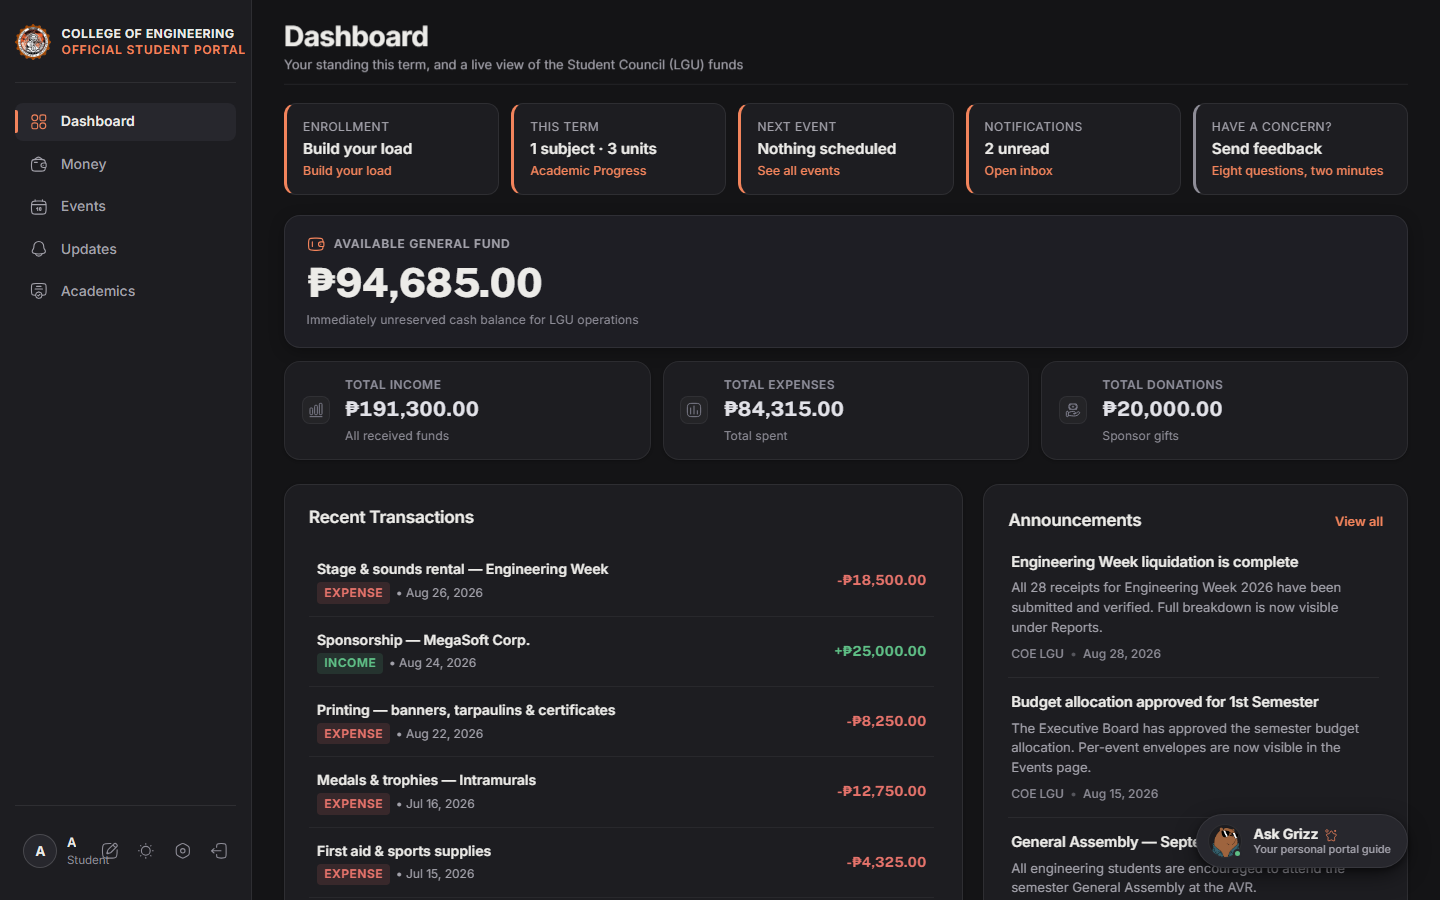
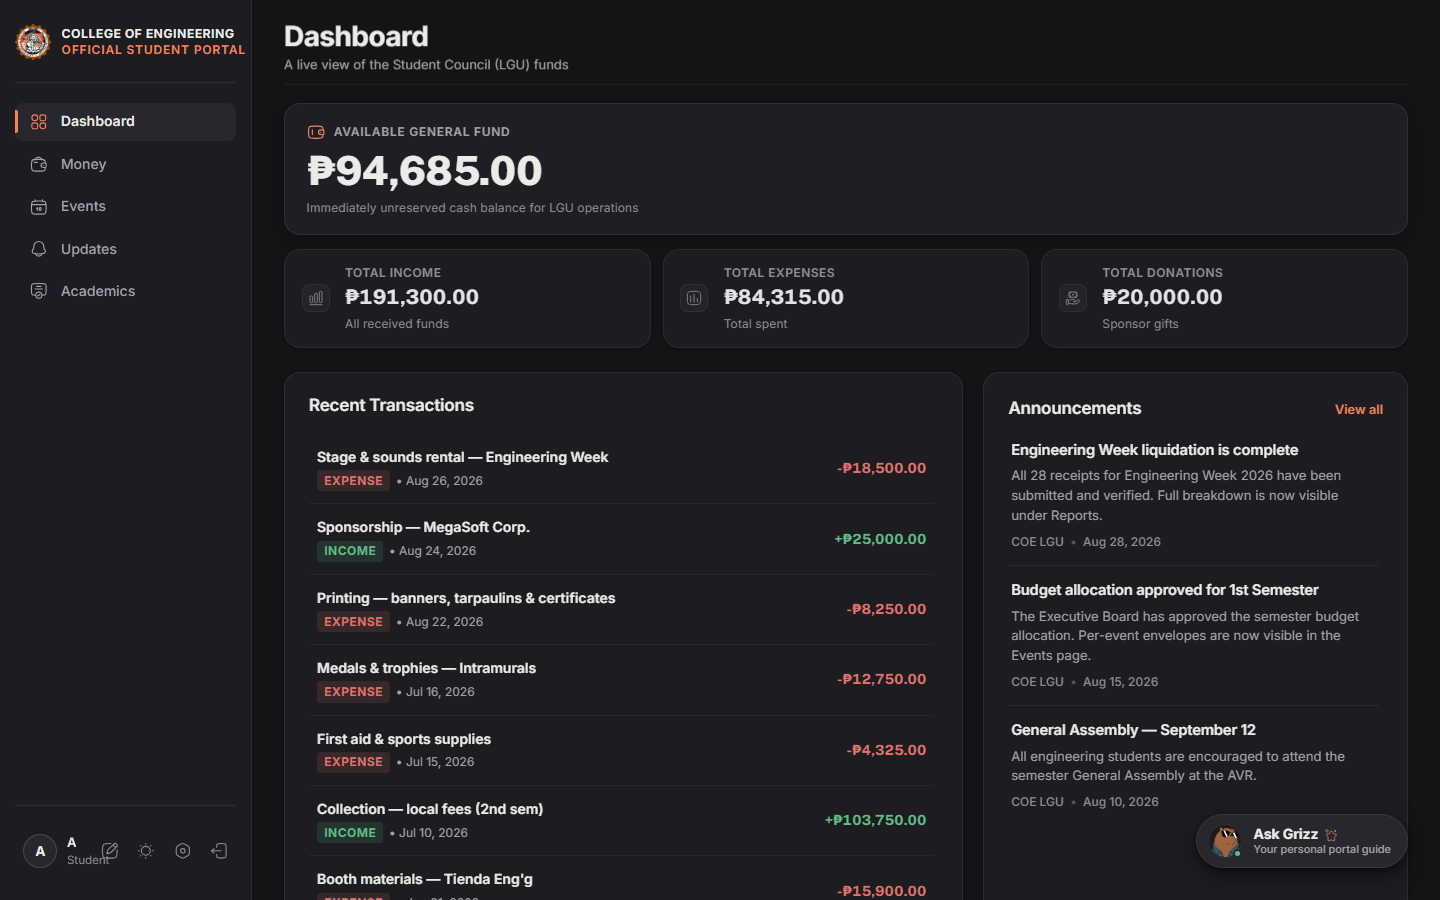
fix(ui): remove the student status strip and fit the Academic nav label
The five-tile strip duplicated destinations that the grouped nav now
puts one tap away, borrowed the coral left rail that marks the active
nav section, and pushed the fund balance below the fold on phones.
The phone bottom-nav label becomes "Academic" so it no longer truncates.

Verified: verify-nav-consolidation 58/58, verify-student-experience
37/37, check_txs exit 0.

diff --git a/client/js/dashboard.js b/client/js/dashboard.js
@@ -7,7 +7,7 @@ const Dashboard = (() => {
   let realtimeChannel = null;
 
   async function load() {
-    await Promise.all([loadStats(), loadRecentTransactions(), loadAnnouncements(), loadStudentStatus()]);
+    await Promise.all([loadStats(), loadRecentTransactions(), loadAnnouncements()]);
     subscribeRealtime();
     bindPopovers();
     bindViewAll();
@@ -327,77 +327,6 @@ const Dashboard = (() => {
     if (!link || _viewAllBound) return;
     _viewAllBound = true;
     link.addEventListener('click', e => { e.preventDefault(); if (window.navigateTo) window.navigateTo('announcements'); });
-  }
-
-  // ---- Student status strip (students only) ----
-  // Reads data the page already fetches elsewhere; officers and admins keep
-  // the plain fund dashboard.
-  async function loadStudentStatus() {
-    const el = document.getElementById('student-status');
-    if (!el) return;
-    let profile = null;
-    try { profile = await Auth.getProfile(); } catch { profile = null; }
-    if (!profile || profile.role !== 'student') { el.classList.add('hidden'); return; }
-
-    const EJ = window.EnrollmentJourney;
-    const [mine, units, events, notifs] = await Promise.all([
-      Api.enrollment.my().catch(() => ({ submissions: [] })),
-      Api.units.my().catch(() => []),
-      Api.events.list().catch(() => []),
-      Api.notifications.list().catch(() => null),
-    ]);
-
-    const now = new Date();
-    const sy = now.getMonth() >= 5 ? `${now.getFullYear()}-${now.getFullYear() + 1}` : `${now.getFullYear() - 1}-${now.getFullYear()}`;
-    const terms = mine.submissions || [];
-    const sub = terms.find(s => s.school_year === sy) || terms[0] || null;
-    const step = EJ ? EJ.stepOf(sub) : null;
-    const stepLabel = step && EJ ? EJ.STEPS[step.stepIndex].label : 'Not started';
-    const action = EJ ? EJ.actionFor(sub) : { kind: 'none' };
-    const enrollmentCta = !sub || sub.status === 'draft'
-      ? (action.kind === 'submit' ? 'Submit your load' : 'Build your load')
-      : 'View status';
-
-    const inProgress = (Array.isArray(units) ? units : []).filter(u => u.status === 'enrolled');
-    const unitsNow = inProgress.reduce((s, u) => s + (Number(u.subjects?.units) || 0), 0);
-
-    const today = now.toISOString().slice(0, 10);
-    const next = (events || []).filter(ev => ev.event_date && ev.event_date >= today && ev.status !== 'archived')
-      .sort((a, b) => a.event_date.localeCompare(b.event_date))[0];
-
-    const unread = notifs && typeof notifs.total_unread === 'number' ? notifs.total_unread : 0;
-
-    el.innerHTML = `
-      <a href="#" class="status-tile" data-view="enrollment">
-        <span class="status-tile-label">Enrollment</span>
-        <span class="status-tile-value">${UI.esc(stepLabel)}</span>
-        <span class="status-tile-cta">${UI.esc(enrollmentCta)}</span>
-      </a>
-      <a href="#" class="status-tile" data-view="units">
-        <span class="status-tile-label">This term</span>
-        <span class="status-tile-value">${inProgress.length} subject${inProgress.length === 1 ? '' : 's'} · ${unitsNow} units</span>
-        <span class="status-tile-cta">Academic Progress</span>
-      </a>
-      <a href="#" class="status-tile" data-view="events">
-        <span class="status-tile-label">Next event</span>
-        <span class="status-tile-value">${next ? UI.esc(next.event_name) : 'Nothing scheduled'}</span>
-        <span class="status-tile-cta">${next ? UI.esc(UI.dateStr(next.event_date)) : 'See all events'}</span>
-      </a>
-      <a href="#" class="status-tile" data-view="notifications">
-        <span class="status-tile-label">Notifications</span>
-        <span class="status-tile-value">${unread ? `${unread} unread` : 'All caught up'}</span>
-        <span class="status-tile-cta">Open inbox</span>
-      </a>
-      <a href="/feedback/" class="status-tile status-tile--quiet">
-        <span class="status-tile-label">Have a concern?</span>
-        <span class="status-tile-value">Send feedback</span>
-        <span class="status-tile-cta">Eight questions, two minutes</span>
-      </a>`;
-    el.querySelectorAll('[data-view]').forEach(a => a.addEventListener('click', e => {
-      e.preventDefault();
-      if (window.navigateTo) window.navigateTo(a.dataset.view);
-    }));
-    el.classList.remove('hidden');
   }
 
   async function subscribeRealtime() {

diff --git a/client/index.html b/client/index.html
@@ -327,12 +327,9 @@
         <div class="view-header view-header-compact">
           <div>
             <h2>Dashboard</h2>
-            <p class="view-sub">Your standing this term, and a live view of the Student Council (LGU) funds</p>
+            <p class="view-sub">A live view of the Student Council (LGU) funds</p>
           </div>
         </div>
-
-        <!-- Student status strip: rendered by dashboard.js for students only -->
-        <section class="student-status hidden" id="student-status" aria-label="Your status this term"></section>
 
         <div class="stats-summary-wrapper">
           <!-- PRIMARY FEATURED METRIC: Available General Fund -->
@@ -1226,7 +1223,7 @@
     </a>
     <a href="#" class="bottom-nav-item" data-view="units" data-group="academics" title="Academics">
       <span class="nav-icon"><iconify-icon icon="solar:diploma-verified-linear"></iconify-icon></span>
-      <span>Academics</span>
+      <span>Academic</span>
     </a>
     <button type="button" class="bottom-nav-item bottom-nav-more-trigger" id="bottom-nav-more-btn" title="More Views & Services" aria-haspopup="dialog" aria-expanded="false">
       <span class="nav-icon">
@@ -1713,7 +1710,7 @@
   <script src="js/auth.js?v=5.5"></script>
   <script src="js/api.js?v=5.4"></script>
   <script src="js/ui.js?v=5.11"></script>
-  <script src="js/dashboard.js?v=5.6"></script>
+  <script src="js/dashboard.js?v=5.7"></script>
   <script src="js/updates.js?v=1.0"></script>
   <script src="js/events.js?v=5.6"></script>
   <script src="js/transactions.js?v=5.4"></script>

diff --git a/client/styles/main.css b/client/styles/main.css
@@ -9309,46 +9309,6 @@ html[data-theme="light"] .ev-defensive-card { background: rgba(var(--error-rgb),
 /* The main scroller keeps room under the floating Grizz pill and mobile nav */
 .main-content { padding-bottom: 6.5rem; }
 
-/* Student status strip on the dashboard */
-.student-status {
-  display: grid;
-  grid-template-columns: repeat(auto-fit, minmax(160px, 1fr));
-  gap: 0.75rem;
-  margin: 0 0 1.25rem;
-}
-.status-tile {
-  display: flex;
-  flex-direction: column;
-  gap: 0.2rem;
-  padding: 0.85rem 1rem;
-  min-height: 44px;
-  background: var(--bg-surface);
-  border: 1px solid var(--border-default);
-  border-left: 3px solid var(--primary);
-  border-radius: var(--radius-md);
-  color: var(--text-primary);
-  text-decoration: none;
-  transition: border-color 0.15s ease, background 0.15s ease;
-}
-.status-tile:hover { background: var(--surface-hover); border-color: var(--border-hover); }
-.status-tile--quiet { border-left-color: var(--text-tertiary); }
-.status-tile-label {
-  font-size: 0.75rem;
-  letter-spacing: 0.04em;
-  text-transform: uppercase;
-  color: var(--text-secondary);
-}
-.status-tile-value {
-  font-size: 0.95rem;
-  font-weight: 600;
-  line-height: 1.3;
-}
-.status-tile-cta {
-  font-size: 0.78rem;
-  color: var(--primary);
-  font-weight: 500;
-}
-
 /* Dashboard card header with a right-aligned link */
 .dashboard-card-head {
   display: flex;

diff --git a/journal/2026-10-06.md b/journal/2026-10-06.md
@@ -21,3 +21,4 @@
 
 - [16:02] Folded the student sidebar from 12 entries to 5 (Dashboard, Money, Events, Updates, Academics) and the officer sidebar from 8 to 6 (Fund Overview, Finance, Events, People, Announcements, Curriculum). Related views now share one entry and switch through a pill track at the top of the view (`.view-tabs` / `.view-tab` in `client/styles/main.css`): Money = Ledger, Income, Reports; Updates = Announcements, For you; Academics = Progress, Enrollment, Career Passport (link); Finance = Record, Reports; People = Accounts, Enrolled roster. Every view keeps its id, heading, loader and markup; only the way users reach them changed. Groups live in `UI.VIEW_GROUPS` (`client/js/ui.js`) and `OF_GROUPS` in `switchSection` (`officer-app.js`); the group entry stays active for every member view. Phone bottom nav is Home, Money, Events, Academics, More; the More sheets lost the rows that became tabs. Unread badges roll up to the group entry and the tabs (`notifications.js`), and tapping a tab marks its category read like the old sidebar entry did. Cache-busters bumped (main.css 8.1, ui.js 5.11, notifications.js 5.5, app.js 6.8, officer-app.js 6.7). Pattern documented in `UI_DESIGN.md` section 6.
 - [16:02] Verified with the server on port 3000 and the mocked backend: new `scripts/verify-nav-consolidation.mjs` 56/56 (both portals, desktop 1366 and phone 375: entry order, every tab, active states, aria-selected, badges on load and cleared on open, refresh and #hash deep links, More sheet contents, no horizontal overflow, 40px tabs, zero page errors), screenshots in `reports/ui-verification/2026-10-06-nav-consolidation/`. `scripts/verify-student-experience.mjs` 39/39 after updating its sidebar-order expectation; `scripts/student-walkthrough.mjs` exit 0 (its one console note, `ERR_FAILED`, is also in the 2026-09-28 run on main). `node check_txs.js` exit 0. `map:code:check` exit 0. Design hook findings on these files (11.2px and 9.6px text, hover contrast on `--text-tertiary`) are pre-existing CSS outside this change and were left as is.
+- [16:30] **Student dashboard cleanup (same branch):** removed the five-tile status strip (`#student-status` markup, `loadStudentStatus` in `dashboard.js`, `.student-status` and `.status-tile` rules) after an improve-ui audit of the phone screenshot: every tile duplicated a destination now one tap away in the grouped nav, the tiles misused the coral left rail that marks the active nav section, and the strip pushed the fund balance below the fold. Dashboard subtitle back to the funds-only line. Phone bottom-nav label shortened to "Academic" because "Academics" truncated at 375px (regression from the nav commit). Cache-buster dashboard.js 5.7. Verified: `verify-nav-consolidation.mjs` 58/58 (adds label-truncation and no-strip checks, phone dashboard screenshot), `verify-student-experience.mjs` 37/37 (strip assertions replaced by an absence check), `check_txs.js` exit 0.
